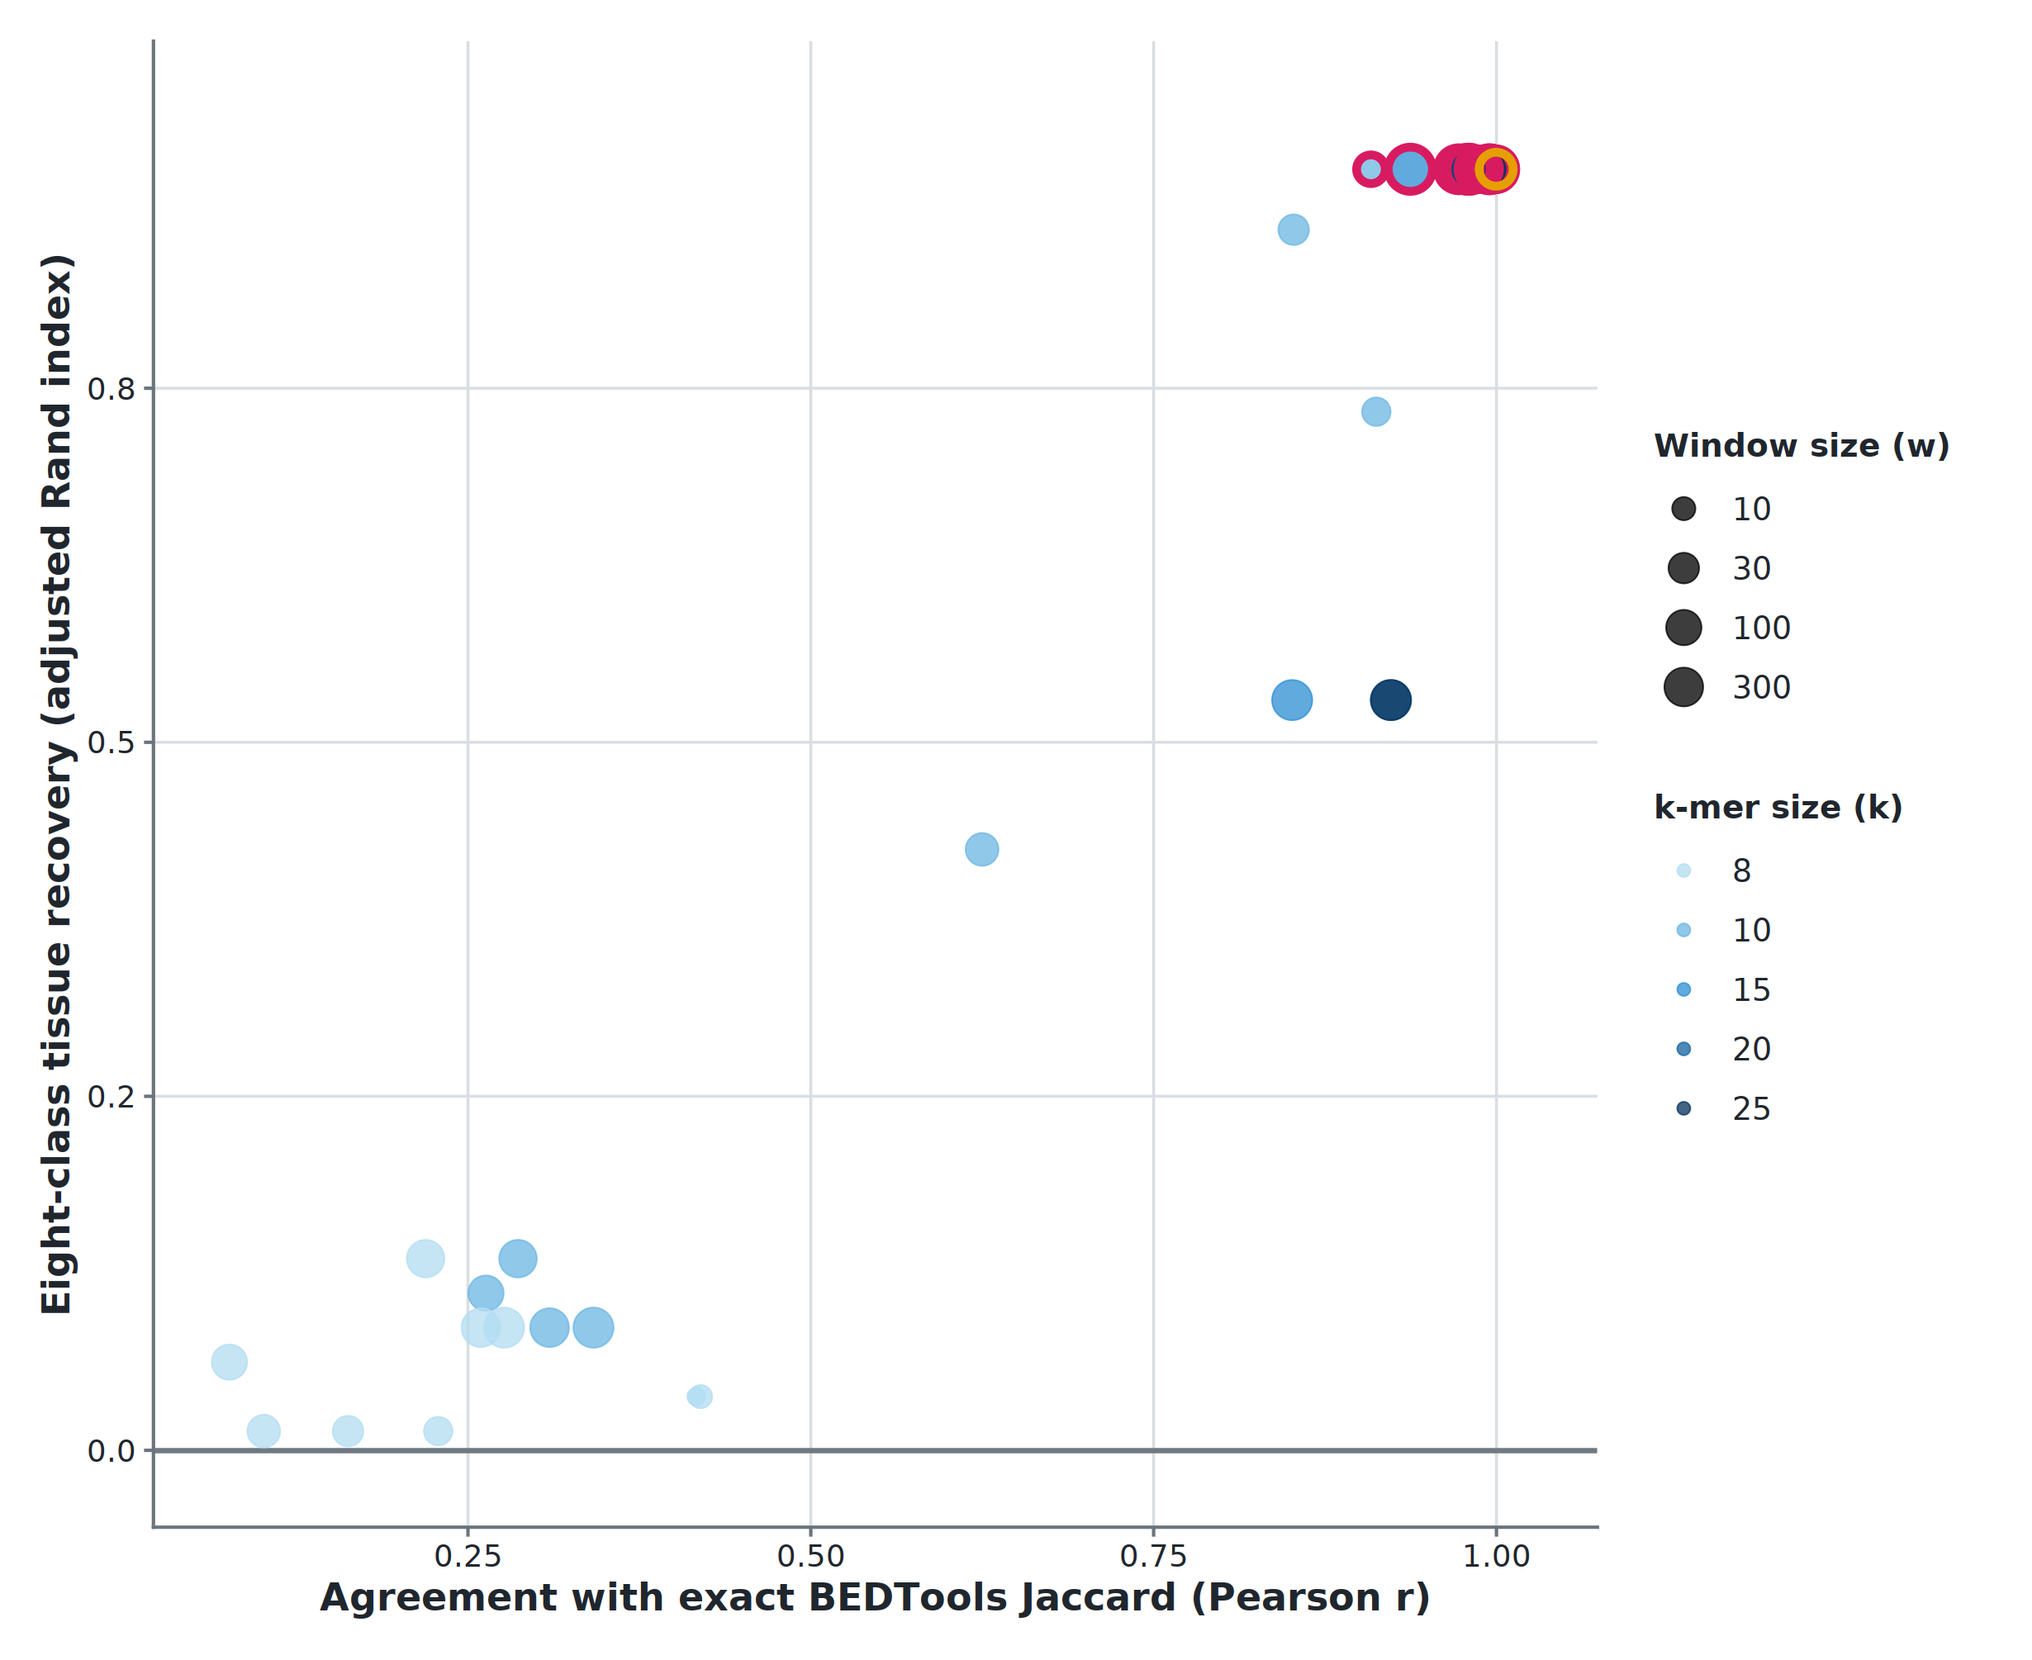
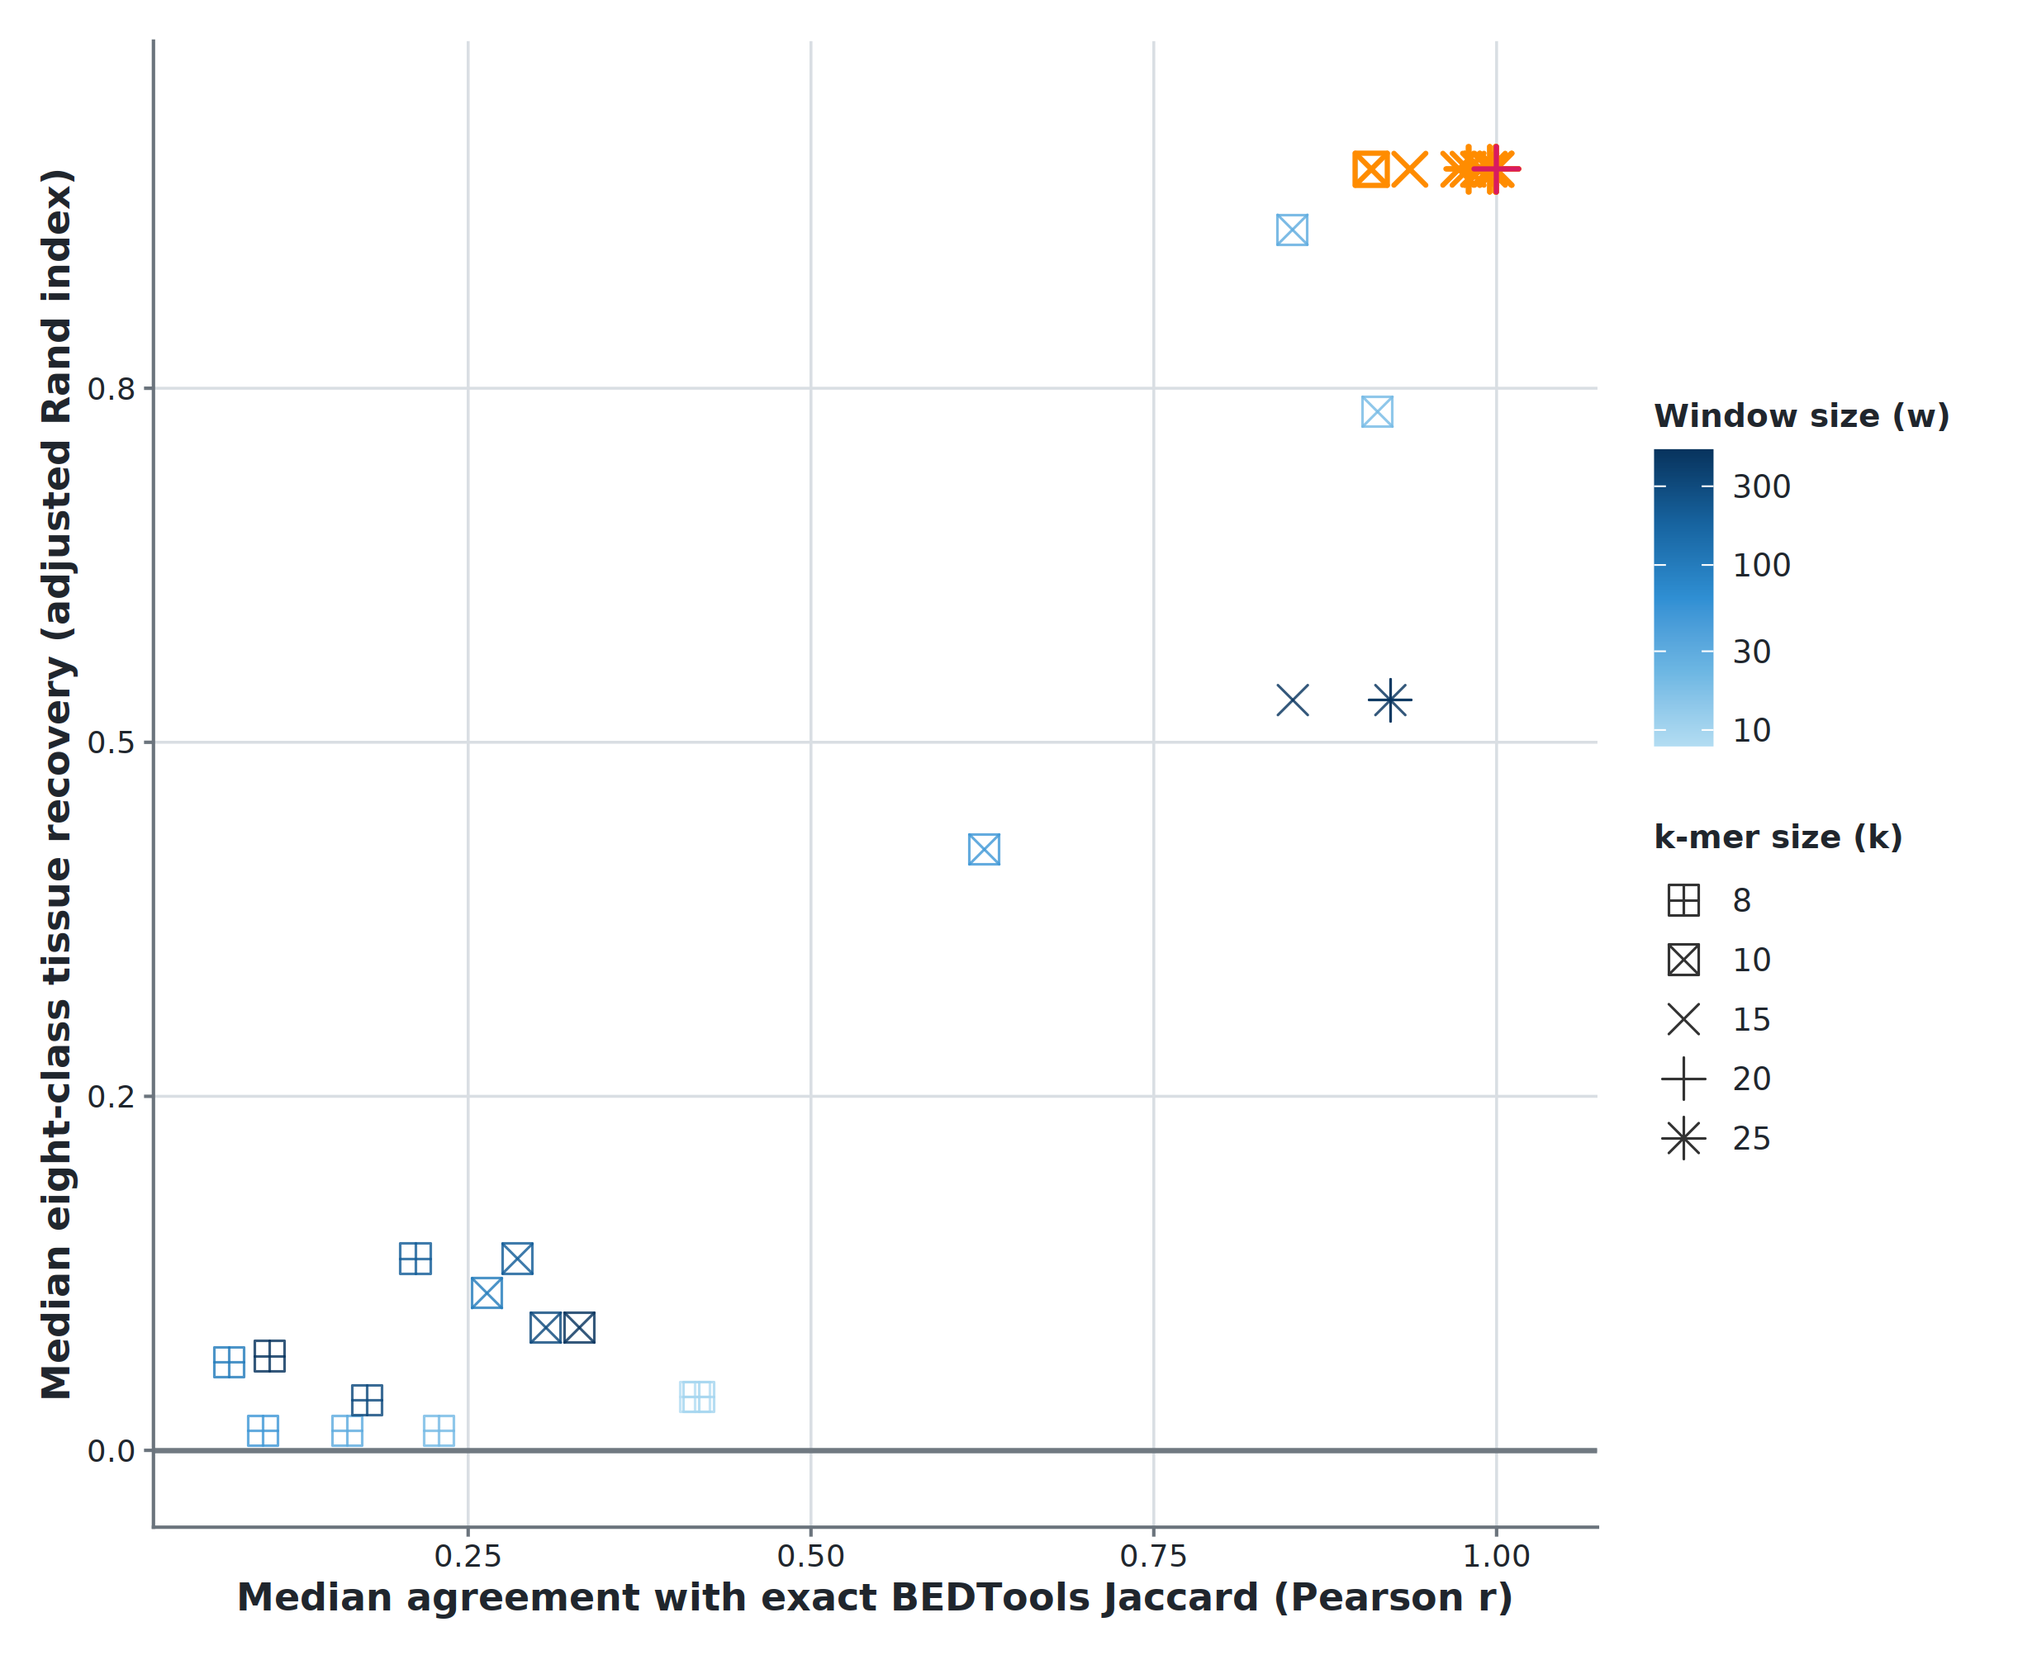
Update parameter tradeoff figures from rehashed runs

diff --git a/paper/outline.md b/paper/outline.md
@@ -90,13 +90,13 @@ Together, the synthetic and real-data benchmarks show that hammock improves the 
 
 - **Figure 6 parameter choice for the Results prose:** Under inclusion–exclusion, k=10, w=30 attains the maximum ARI at the displayed default precision p=18 and at every tested precision p=12–24; at p=12, k=10, w=20 ties that maximum. The k=10, w=30 ten-cluster partition persists across the tested precision range; the parameter sweep, rather than Figure 6 itself, is the evidence for that choice.
 
-Sequence-mode parameterization separated numerical agreement with coordinate overlap from recovery of annotated tissue organization. At p=18, k=20, w=20 maximized Pearson correlation with exact BEDTools Jaccard (r=0.99997) but yielded ARI=0.693, whereas k=10, w=30 maximized tissue recovery (ARI=0.910) while retaining lower but substantial agreement with exact Jaccard (r=0.943; Figure 7). The supplementary hierarchy produced by the numerical optimum separated additional annotated tissue groups, demonstrating that maximizing agreement with coordinate-based overlap does not necessarily maximize biological resolution. Sequence mode can therefore preserve coordinate-overlap structure or emphasize tissue-associated sequence structure, depending on parameterization.
+Sequence-mode parameterization separated numerical agreement with coordinate overlap from recovery of annotated tissue organization. At p=18, k=20, w=20 maximized median Pearson correlation with exact BEDTools Jaccard (r=0.99967) but yielded median ARI=0.693, whereas k=10, w=30 maximized median tissue recovery (ARI=0.910) while retaining lower agreement with exact Jaccard (r=0.851; Figure 7). The supplementary hierarchy produced by the numerical optimum separated additional annotated tissue groups, demonstrating that maximizing agreement with coordinate-based overlap does not necessarily maximize biological resolution. Sequence mode can therefore preserve coordinate-overlap structure or emphasize tissue-associated sequence structure, depending on parameterization.
 
-![Figure 7](figures/parameter_objective_tradeoff_estimators.png)
+![Figure 7](figures/parameter_objective_tradeoff_estimators_10class.png)
 
-**Figure 7. Sequence parameters separate numerical agreement from biological recovery.** Sequence-mode parameter configurations were evaluated on 20 Maurano fetal-tissue DNase hypersensitivity interval sets at HyperLogLog precision p=18 using the inclusion–exclusion Jaccard estimate (`jaccard_similarity_ie`). Each point represents one combination of k-mer size (k) and minimizer-window size (w); the x-axis gives Pearson correlation with exact BEDTools Jaccard across pairwise comparisons, and the y-axis gives adjusted Rand index (ARI) for recovery of the ten annotated tissue classes after clustering. Point color encodes k and point size encodes w. The configuration with greatest numerical agreement, k=20 and w=20 (r=0.99997; ARI=0.693), has an orange outline. The k=10, w=30 biological optimum used in Figure 6 (ARI=0.910; r=0.943) has a magenta outline. Thus the parameters that best reproduce exact pairwise Jaccard values differ from those that best recover the annotated tissue organization. The exact BEDTools reference was independently regenerated with BEDTools 2.30.0 over all 400 ordered pairs and matched the checked-in reference byte-for-byte, with 0 of 190 unique pairs asymmetric.
+**Figure 7. Sequence parameters separate numerical agreement from biological recovery.** Sequence-mode parameter configurations were evaluated on 20 Maurano fetal-tissue DNase hypersensitivity interval sets at HyperLogLog precision p=18 using the inclusion–exclusion Jaccard estimate (`jaccard_similarity_ie`) across eight prespecified independent rehash seeds. Each point represents one combination of k-mer size (k) and minimizer-window size (w); the x-axis gives median Pearson correlation with exact BEDTools Jaccard across pairwise comparisons, and the y-axis gives median adjusted Rand index (ARI) for recovery of the ten annotated tissue classes after clustering. Point color encodes w and point shape encodes k. The configuration with greatest numerical agreement, k=20 and w=20 (r=0.99967; ARI=0.693), is colored magenta. The k=10, w=30 biological optimum used in Figure 6 (ARI=0.910; r=0.851) is colored bright orange. Thus the parameters that best reproduce exact pairwise Jaccard values differ from those that best recover the annotated tissue organization. The exact BEDTools reference was independently regenerated with BEDTools 2.30.0 over all 400 ordered pairs and matched the checked-in reference byte-for-byte, with 0 of 190 unique pairs asymmetric.
 
-**Figure 7 generation.** The figure is generated by `paper/parameter_objective_tradeoff/plot_parameter_objective_tradeoff_estimators.R` and written to `paper/figures/parameter_objective_tradeoff_estimators.png`. The script reads `docs/data/mode_d_summary.csv`, supplementing the inclusion–exclusion rows from `experiments/maurano_dhs_validation/results/mode_d_summary.csv` when they are absent from the staged paper copy, and filters to `jaccard_similarity_ie`, p=18, BEDTools reference, k≥8, and non-missing Pearson/ARI values. It identifies the greatest-Pearson configuration and verifies the k=10, w=30 ARI optimum.
+**Figure 7 generation.** The figure is generated by `paper/parameter_objective_tradeoff/plot_parameter_objective_tradeoff_estimators.R` and written to `paper/figures/parameter_objective_tradeoff_estimators_10class.png`. The script reads the validated `rehash-selector64` run table, filters to p=18 and the eight prespecified independent seeds, and plots per-cell median BEDTools Pearson agreement and ten-class ARI. It identifies the greatest-Pearson configuration and verifies the k=10, w=30 ARI optimum.
 
 At the maximum-ARI setting, the same ten-cluster partition was recovered at p=12, p=18, and p=24, producing identical ARI and NMI values (ARI=0.910; NMI=0.961). However, the complete dendrogram changed across precisions, including its leaf order, branch topology, and merge heights (Figure 8). Thus, partition-level recovery was robust to precision, but ARI and NMI masked variation in finer hierarchical relationships. Parameter selection should consequently follow the intended analytical objective, and hierarchical interpretations beyond the evaluated cluster cut should be made cautiously.
 

diff --git a/paper/draft.md b/paper/draft.md
@@ -117,13 +117,13 @@ Together, the synthetic and real-data benchmarks show that hammock improves the 
 
 - **Figure 6 parameter choice for the Results prose:** Under inclusion–exclusion, k=10, w=30 attains the maximum ARI at the displayed default precision p=18 and at every tested precision p=12–24; at p=12, k=10, w=20 ties that maximum. The k=10, w=30 ten-cluster partition persists across the tested precision range; the parameter sweep, rather than Figure 6 itself, is the evidence for that choice.
 
-Sequence-mode parameterization separated numerical agreement with coordinate overlap from recovery of annotated tissue organization. At p=18, k=20, w=20 maximized Pearson correlation with exact BEDTools Jaccard (r=0.99997) but yielded ARI=0.693, whereas k=10, w=30 maximized tissue recovery (ARI=0.910) while retaining lower but substantial agreement with exact Jaccard (r=0.943; Figure 7). The supplementary hierarchy produced by the numerical optimum separated additional annotated tissue groups, demonstrating that maximizing agreement with coordinate-based overlap does not necessarily maximize biological resolution. Sequence mode can therefore preserve coordinate-overlap structure or emphasize tissue-associated sequence structure, depending on parameterization.
+Sequence-mode parameterization separated numerical agreement with coordinate overlap from recovery of annotated tissue organization. At p=18, k=20, w=20 maximized median Pearson correlation with exact BEDTools Jaccard (r=0.99967) but yielded median ARI=0.693, whereas k=10, w=30 maximized median tissue recovery (ARI=0.910) while retaining lower agreement with exact Jaccard (r=0.851; Figure 7). The supplementary hierarchy produced by the numerical optimum separated additional annotated tissue groups, demonstrating that maximizing agreement with coordinate-based overlap does not necessarily maximize biological resolution. Sequence mode can therefore preserve coordinate-overlap structure or emphasize tissue-associated sequence structure, depending on parameterization.
 
-![Figure 7](figures/parameter_objective_tradeoff_estimators.png)
+![Figure 7](figures/parameter_objective_tradeoff_estimators_10class.png)
 
-**Figure 7. Sequence parameters separate numerical agreement from biological recovery.** Sequence-mode parameter configurations were evaluated on 20 Maurano fetal-tissue DNase hypersensitivity interval sets at HyperLogLog precision p=18 using the inclusion–exclusion Jaccard estimate (`jaccard_similarity_ie`). Each point represents one combination of k-mer size (k) and minimizer-window size (w); the x-axis gives Pearson correlation with exact BEDTools Jaccard across pairwise comparisons, and the y-axis gives adjusted Rand index (ARI) for recovery of the ten annotated tissue classes after clustering. Point color encodes k and point size encodes w. The configuration with greatest numerical agreement, k=20 and w=20 (r=0.99997; ARI=0.693), has an orange outline. The k=10, w=30 biological optimum used in Figure 6 (ARI=0.910; r=0.943) has a magenta outline. Thus the parameters that best reproduce exact pairwise Jaccard values differ from those that best recover the annotated tissue organization.
+**Figure 7. Sequence parameters separate numerical agreement from biological recovery.** Sequence-mode parameter configurations were evaluated on 20 Maurano fetal-tissue DNase hypersensitivity interval sets at HyperLogLog precision p=18 using the inclusion–exclusion Jaccard estimate (`jaccard_similarity_ie`) across eight prespecified independent rehash seeds. Each point represents one combination of k-mer size (k) and minimizer-window size (w); the x-axis gives median Pearson correlation with exact BEDTools Jaccard across pairwise comparisons, and the y-axis gives median adjusted Rand index (ARI) for recovery of the ten annotated tissue classes after clustering. Point color encodes w and point shape encodes k. The configuration with greatest numerical agreement, k=20 and w=20 (r=0.99967; ARI=0.693), is colored magenta. The k=10, w=30 biological optimum used in Figure 6 (ARI=0.910; r=0.851) is colored bright orange. Thus the parameters that best reproduce exact pairwise Jaccard values differ from those that best recover the annotated tissue organization.
 
-**Figure 7 generation.** The figure is generated by `paper/parameter_objective_tradeoff/plot_parameter_objective_tradeoff_estimators.R` and written to `paper/figures/parameter_objective_tradeoff_estimators.png`. The script reads `docs/data/mode_d_summary.csv`, supplementing the inclusion–exclusion rows from `experiments/maurano_dhs_validation/results/mode_d_summary.csv` when they are absent from the staged paper copy, and filters to `jaccard_similarity_ie`, p=18, BEDTools reference, k≥8, and non-missing Pearson/ARI values. It identifies the greatest-Pearson configuration and verifies the k=10, w=30 ARI optimum.
+**Figure 7 generation.** The figure is generated by `paper/parameter_objective_tradeoff/plot_parameter_objective_tradeoff_estimators.R` and written to `paper/figures/parameter_objective_tradeoff_estimators_10class.png`. The script reads the validated `rehash-selector64` run table, filters to p=18 and the eight prespecified independent seeds, and plots per-cell median BEDTools Pearson agreement and ten-class ARI. It identifies the greatest-Pearson configuration and verifies the k=10, w=30 ARI optimum.
 
 At the maximum-ARI setting, the same ten-cluster partition was recovered at p=12, p=18, and p=24, producing identical ARI and NMI values (ARI=0.910; NMI=0.961). However, the complete dendrogram changed across precisions, including its leaf order, branch topology, and merge heights (Figure 8). Thus, partition-level recovery was robust to precision, but ARI and NMI masked variation in finer hierarchical relationships. Parameter selection should consequently follow the intended analytical objective, and hierarchical interpretations beyond the evaluated cluster cut should be made cautiously.
 

diff --git a/paper/parameter_objective_tradeoff/README.md b/paper/parameter_objective_tradeoff/README.md
@@ -1,5 +1,23 @@
-Paper-local inputs for the sequence-mode parameter objective tradeoff figure.
+The sequence-mode parameter objective tradeoff figure reads the validated
+`rehash-selector64` run table at
+`experiments/maurano_dhs_rehash_validation/results/summaries/rehash_run_scores.csv`.
+It filters to p=18 and the eight prespecified independent seeds (1, 2, 3, 17,
+42, 43, 99, and 31337), requires all 37 parameter cells to contain exactly one
+run per seed, and plots the per-cell medians of `bedtools_pearson` and either
+`ari_10class` or `ari_8class`.
 
-`exact_scores.csv` is the corrected exact selected-feature score table. The
-tradeoff figure uses `bedtools_pearson` for agreement with exact coordinate
-Jaccard and `ari_10class` or `ari_8class` for tissue-label recovery.
+Both the ten- and eight-cut figures encode window size by color and k-mer size
+by open or line-only point shapes. In the ten-cut figure, the numerical optimum
+is colored magenta and the biological optimum bright orange using their native
+shapes. Magenta therefore denotes the numerical optimum in both class views.
+
+The optional fourth argument sets the lower Pearson display limit. It produces
+a zoomed view without removing lower-agreement cells from the analysis. For
+example, passing `0.9` displays Pearson r=0.90--1.00. Zoomed views omit the
+non-plateau points while leaving them in the analysis. Their color limits,
+color breaks, and shape levels remain fixed to those of the full graph. Both
+eight-cut views color the numerical-optimum point magenta. The full view colors
+every tied biological-optimum point bright orange, while the zoom leaves those
+points in their normal window-size colors.
+
+Exact selected-feature scores are not inputs to this figure.
